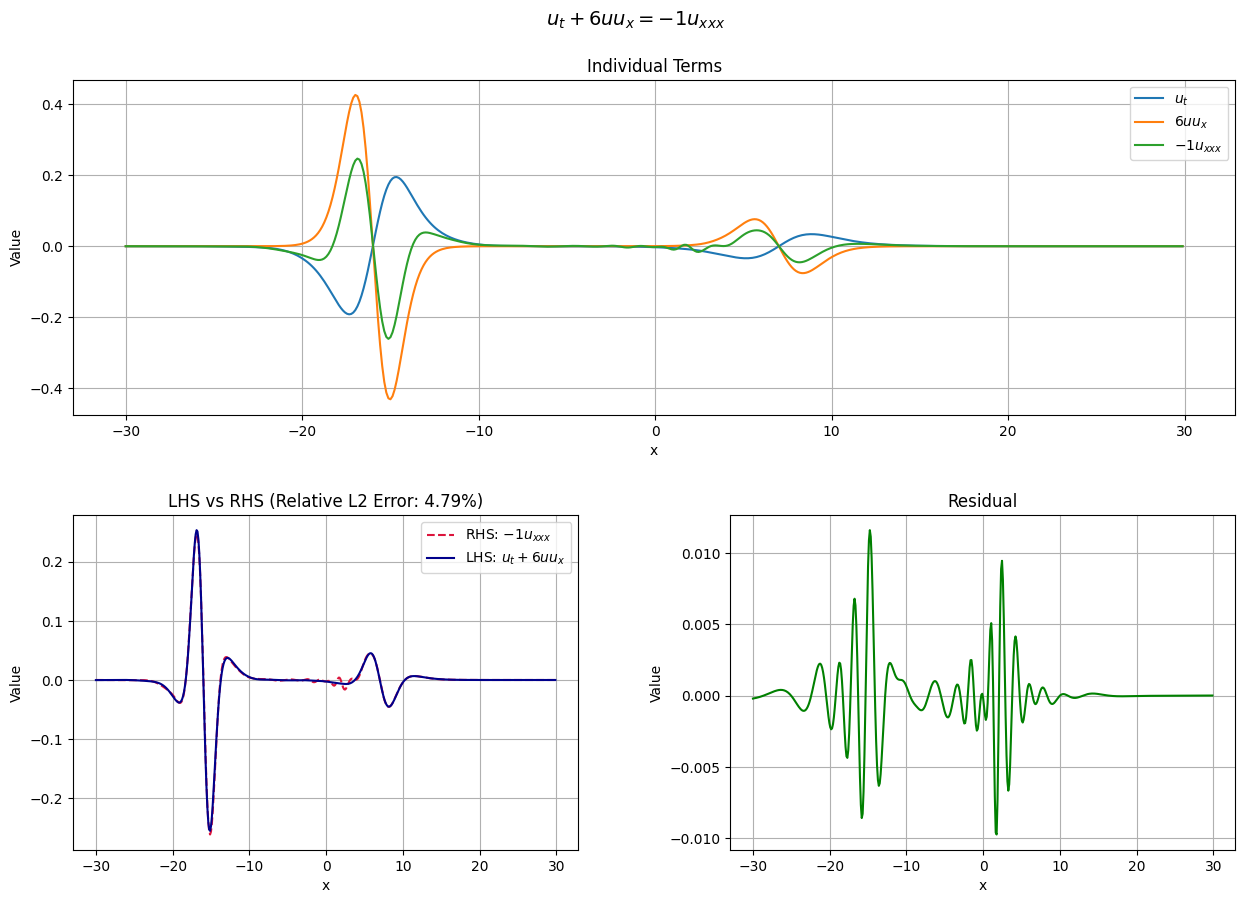
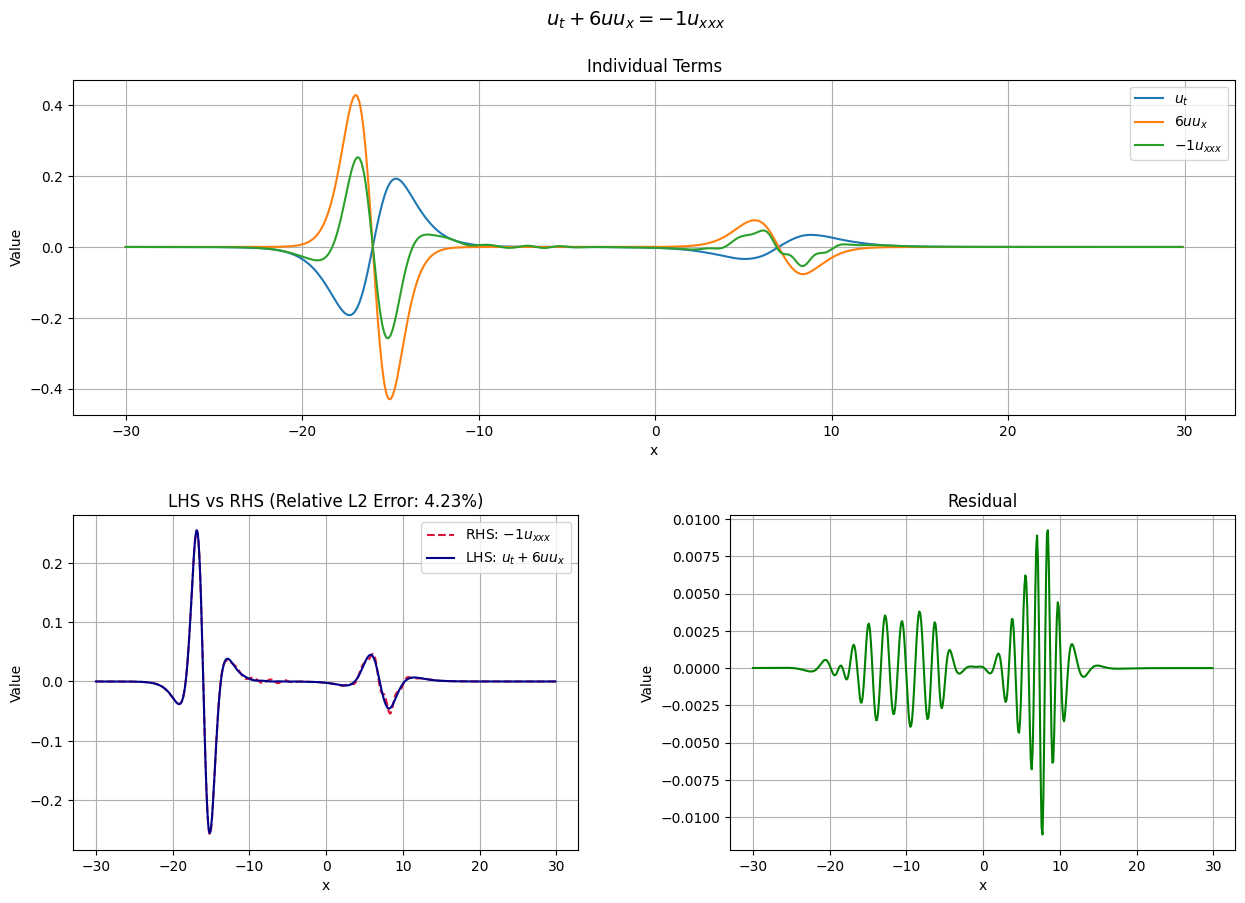
finishing task 1 & 2

diff --git a/project_2/feature_library.py b/project_2/feature_library.py
@@ -2,6 +2,7 @@
 This file contains routines for the assembly of the sparse LSE Uₜ = ϴ ξ for PDE-Find method
 - Part 1 contains the helper routines that builds the Theta matrix and the U_t LHS
 - Part 2 contains routines that help with specifying candidates (partial derivatives) using sympy
+- Part 3 contains concrete implementation for derivative computation
 """
 
 import torch
@@ -114,63 +115,137 @@ def generate_candidate_symbols(max_x_order=2,
         binary_ops: List of binary operations ['add', 'mul'] or None for no binary ops
         power_orders: List of power orders [2, 3, ...] or None for no powers
         allowed_mul_orders: List of tuples (order1, order2) specifying which orders can be multiplied
-                          e.g. [(0,2)] allows u * u_xx but not u_xx * u_xx
         exclude_u_t: Whether to exclude u_t terms from candidates
     """
     # Define symbols separately for spatial and temporal derivatives
     x_syms = {sp.Symbol(f'u_{"x"*n}') for n in range(1, max_x_order+1)}
     
-    # Generate temporal derivatives, excluding u_t if specified
+    # Generate temporal derivatives
     t_syms = set()
-
     for n in range(1, max_t_order+1):
         sym = sp.Symbol(f'u_{"t"*n}')
-        if not (exclude_u_t and n == 1):  # Skip u_t if exclude_u_t is True
+        if not (exclude_u_t and n == 1):
             t_syms.add(sym)
     
     # Combine all symbols
     syms = x_syms.union(t_syms)
     syms.add(sp.Symbol('u'))
     
-    # Start with simplified base symbols
-    expressions = {simplify_expression(sym) for sym in syms}
-    new_exprs = set()
+    # Start with base symbols
+    expressions = set(syms)
     
-    # Generate powers if specified
+    # Generate powers first
+    powered_expressions = set()
     if power_orders:
-        for e in expressions:
+        for base_expr in expressions:
             for power in power_orders:
-                if power != 1:  # Skip power 1 as it's the same as the base symbol
-                    new_exprs.add(simplify_expression(e**power))
-        expressions.update(new_exprs)
+                if power != 1:  # Skip power 1
+                    powered_expr = base_expr**power
+                    powered_expressions.add(powered_expr)
+    
+    # Combine base and powered expressions
+    expressions.update(powered_expressions)
     
     # Generate binary operations if specified
     if binary_ops and 'mul' in binary_ops and allowed_mul_orders:
-        # Only generate products with allowed order combinations
-        new_exprs = set()
+        products = set()
         for e1, e2 in product(expressions, expressions):
             if e1 != e2:  # Avoid self-multiplication
-                # Skip if either term contains u_t
                 if exclude_u_t and ('u_t' in str(e1) or 'u_t' in str(e2)):
                     continue
                     
                 order1 = get_symbol_order(e1)
                 order2 = get_symbol_order(e2)
                 
-                # Check if this order combination is allowed
                 if (order1, order2) in allowed_mul_orders or (order2, order1) in allowed_mul_orders:
-                    prod = simplify_expression(e1 * e2)
-                    new_exprs.add(prod)
-        expressions.update(new_exprs)
+                    prod = e1 * e2
+                    products.add(prod)
+        
+        expressions.update(products)
     
-    # Final simplification of all expressions
-    expressions = {simplify_expression(expr) for expr in expressions}
-    
-    # Filter out any remaining expressions containing u_t if exclude_u_t is True
+    # Filter out u_t terms if needed
     if exclude_u_t:
         expressions = {expr for expr in expressions if 'u_t' not in str(expr)}
     
-    return sorted(expressions, key=lambda x: len(str(x)))
+    return sorted(expressions, key=lambda x: str(x))
+
+#============================================================
+# Part 3: Concrete Implementation for derivative computation
+#============================================================
+
+import torch
+import sympy as sp
+from sympy import Pow, Symbol, Mul, Integer
+
+def compute_derivatives_autodiff(model, x, t, symbols, include_constant=True, include_u=True):
+    """
+    Compute derivatives based on NN model that approximates 1D spatiotemporal u(x,t)
+    - symbols: symbolic expressions are derivatives to be computed need to be specified
+    """
+    results = {}
+    x.requires_grad = True
+    t.requires_grad = True
+    u = model(x, t)
+    
+    # First compute all basic derivatives we'll need
+    basic_derivatives = {}
+    max_x_order = max(str(expr).count('x') for expr in symbols)
+    max_t_order = max(str(expr).count('t') for expr in symbols)
+    
+    # Add constant term if requested
+    if include_constant:
+        results['1'] = torch.ones((u.shape[0] * u.shape[1], 1))
+    
+    # Add base function u if requested
+    if include_u:
+        results['u'] = u
+    
+    # Compute x derivatives
+    current = u
+    basic_derivatives['u'] = u
+    for order in range(1, max_x_order + 1):
+        grad = torch.ones_like(current)
+        current = torch.autograd.grad(current, x, grad_outputs=grad, create_graph=True)[0]
+        basic_derivatives[f'u_{"x" * order}'] = current
+    
+    # Compute t derivatives
+    current = u
+    for order in range(1, max_t_order + 1):
+        grad = torch.ones_like(current)
+        current = torch.autograd.grad(current, t, grad_outputs=grad, create_graph=True)[0]
+        basic_derivatives[f'u_{"t" * order}'] = current
+    
+    # Helper function to convert expression to computation
+    def process_expression(expr):
+        if isinstance(expr, Symbol):
+            # Basic symbol (u, u_x, etc.)
+            return basic_derivatives[str(expr)]
+        elif isinstance(expr, Pow):
+            # Handle power expressions (u^2, u_x^2, etc.)
+            base = process_expression(expr.args[0])
+            power = expr.args[1]
+            # Convert SymPy Integer to Python float for torch.pow
+            if isinstance(power, Integer):
+                power = float(power)
+            return torch.pow(base, power)
+        elif isinstance(expr, Mul):
+            # Handle multiplication
+            result = process_expression(expr.args[0])
+            for arg in expr.args[1:]:
+                result = result * process_expression(arg)
+            return result
+        else:
+            raise ValueError(f"Unsupported expression type: {type(expr)}")
+
+    # Now construct each candidate expression
+    for expr in symbols:
+        try:
+            results[str(expr)] = process_expression(expr)
+        except Exception as e:
+            print(f"Error processing expression {expr}: {e}")
+            raise
+                
+    return results
 
 if __name__ == "__main__":
     # Generated candidates are just strings, not the numeric values of derivative functions

diff --git a/project_2/evaluate.py b/project_2/evaluate.py
@@ -33,7 +33,7 @@ print_discovered_equation,
 compute_derivatives_autodiff
 )
 
-from ffn import (
+from fnn import (
 Net,
 load_model
 )
@@ -53,7 +53,7 @@ def main(system=1):
 
     # Load the model using utility function
     model = load_model(checkpoint_dir[-1])
-    print(f"Loading FFN that approximates system {system} from: {checkpoint_dir[-1]}")
+    print(f"Loading FNN that approximates system {system} from: {checkpoint_dir[-1]}")
 
     # Load and prepare dataset
     if system == 1:
@@ -97,28 +97,29 @@ def main(system=1):
             max_x_order=3,     # Up to u_xxx
             max_t_order=0,
             binary_ops=['mul'],
-            power_orders=[1],
+            power_orders=[1, 2, 3], # base power orders
             allowed_mul_orders=[(0,1), (0,2)],
             exclude_u_t=True
         )
+        derivatives = compute_derivatives_autodiff(model, x_tensor, t_tensor, symbols, 
+                                include_constant=True,
+                                include_u=True)
     else:
         symbols = generate_candidate_symbols(
             max_x_order=3,     # Up to u_xxx
-            max_t_order=0,
+            max_t_order=2,     # Up to u_tt
             binary_ops=['mul'],
             power_orders=[1],
-            allowed_mul_orders=[(0,1), (0,2)],
-            exclude_u_t=True
+            allowed_mul_orders=[(0,1), (0,2), (0,3), (1,1), (2,2), (3,3)],
+            exclude_u_t=False
         )
 
-    derivatives = compute_derivatives_autodiff(model, x_tensor, t_tensor, symbols, 
-                               include_constant=True,
-                               include_u=True)
+        derivatives = compute_derivatives_autodiff(model, x_tensor, t_tensor, symbols, 
+                                include_constant=True,
+                                include_u=True)
 
-    # Manually filter out some entries
-    # derivatives.pop('u')
-    # derivatives.pop('u_t')
-    derivatives.pop('u_x')
+        # Manually filter out some entries
+        derivatives.pop('u_t') # this is already lhs, we want just u_tt and co
 
     print(f"{len(list(derivatives.keys()))} derivatives keys: {list(derivatives.keys())}")
     candidates = list(derivatives.keys())
@@ -139,18 +140,33 @@ def main(system=1):
     Theta_np = Theta.cpu().detach().numpy()
     u_t_np = u_t.cpu().detach().numpy()
 
+    if system == 1:
+        λ = 1e-6
+        maxiter = 50
+        split = 0.5
+        η = 1e-3
+        d_tol = 5e-3
+        STR_iters = 10
+    else:
+        λ = 1e-6
+        maxiter = 50
+        split = 0.7
+        η = 1e-3
+        d_tol = 1e-2
+        STR_iters = 10
+
+    # Find best coefficients
     ξ_best = TrainSTRidge(
-        Theta_np, u_t_np,
-        lam=1e-6,
-        d_tol=5e-3,
-        maxit=10,
-        STR_iters=10,
-        l0_penalty=None,
-        split=0.7,
+        Theta_np,
+        u_t_np,
+        λ=λ,
+        d_tol=d_tol,
+        maxiter=maxiter,
+        STR_iters=STR_iters,
+        η=η,
+        split=split,
         print_best_tol=True
     )
-    print(f"Found coefficients {ξ_best}")
-
     # After running ridge regression:
     print_discovered_equation(candidates, ξ_best)
 

diff --git a/project_2/fnn.py b/project_2/fnn.py
@@ -1,0 +1,72 @@
+"""
+Utility functions used for training and evaluating the simple FNN model
+"""
+
+import json
+from datetime import datetime
+from pathlib import Path
+
+import torch
+import torch.nn as nn
+import numpy as np
+
+class Net(nn.Module):
+    """Simple NN used for approximating spatiotemporal solution u(x, t)"""
+    def __init__(self, width = 64, activation_fun = "Tanh", device="cuda"):
+        super(Net, self).__init__()
+        self.width = width
+
+        # Layers
+        self.fc0 = nn.Linear(2, self.width)
+        self.fc1 = nn.Linear(self.width, self.width)
+        self.fc2 = nn.Linear(self.width, 1)
+
+        if activation_fun == "Tanh":
+            self.activation = nn.Tanh()
+        elif activation_fun == "GELU":
+            self.activation = nn.GELU()
+        print(f"Activation function set to {activation_fun}")
+           
+        self.to(device)
+        
+    def forward(self, x, t):
+        X = torch.cat([x, t], dim=1)
+        X = self.fc0(X)
+        X = self.activation(X)
+        X = self.fc1(X)
+        X = self.activation(X)
+        X = self.fc2(X)
+        return X
+
+def get_experiment_name(width, learning_rate):
+    """Create a unique experiment name based on key parameters and timestamp"""
+    timestamp = datetime.now().strftime("%Y%m%d_%H%M%S")
+    return f"pde_sol_w{width}_lr{learning_rate}_{timestamp}"
+
+def save_config(config, save_dir):
+    """Save configuration to a JSON file"""
+    config_copy = {
+        'model_config': {k: str(v) if isinstance(v, torch.device) else v 
+                        for k, v in config['model_config'].items()},
+        'training_config': {k: str(v) if isinstance(v, torch.device) else v 
+                          for k, v in config['training_config'].items()}
+    }
+    
+    with open(save_dir / 'training_config.json', 'w') as f:
+        json.dump(config_copy, f, indent=4)
+
+def load_model(checkpoint_dir: str) -> torch.nn.Module:
+    device = torch.device('cuda' if torch.cuda.is_available() else 'cpu')
+    checkpoint_dir = Path(checkpoint_dir)
+    
+    with open(checkpoint_dir / 'training_config.json', 'r') as f:
+        config_dict = json.load(f)
+    
+    model_config = config_dict['model_config']
+    model_args = {k: v for k, v in model_config.items()}
+    model = Net(**model_args)
+    
+    model.load_state_dict(torch.load(checkpoint_dir / 'model.pth', weights_only=True))    
+    model = model.to(device)
+    model.eval()
+    return model

diff --git a/project_2/README.md b/project_2/README.md
@@ -5,17 +5,46 @@ This project aims to use the PDE-Find method [^1] for symbolic regression of the
 ## Getting Started
 
 
-For system 1 & 2:
+### For system 1:
 
 ```python
 # Run PDE-Find and obtain symbols of governing equation for system 1
 python3 evaluate.py --system=1
+```
 
+running the PDE-Find algorithm based on 31 candidates
+
+```
+31 derivatives keys: ['1', 'u', 'u**2', 'u**2*u_x', 'u**2*u_x**2', 'u**2*u_x**3', 'u**2*u_xx', 'u**2*u_xx**2', 'u**2*u_xx**3', 'u**3', 'u**3*u_x', 'u**3*u_x**2', 'u**3*u_x**3', 'u**3*u_xx', 'u**3*u_xx**2', 'u**3*u_xx**3', 'u*u_x', 'u*u_x**2', 'u*u_x**3', 'u*u_xx', 'u*u_xx**2', 'u*u_xx**3', 'u_x', 'u_x**2', 'u_x**3', 'u_xx', 'u_xx**2', 'u_xx**3', 'u_xxx', 'u_xxx**2', 'u_xxx**3']
+```
+
+we found the following equation for system 1:
+
+$$u_t = -0.997335 \cdot u u_\mathbf{x} + 0.099140*u_\mathbf{x x} $$
+
+
+### For system 2
+For the second PDE solutions given by the dataset `2.npz`, the same `evaluate.py` script is used, because we have again 1D solutions for one specific PDE:
+
+```bash
 # Similarly for system 2
 python3 evaluate.py --system=2
 ```
+with 13 candidate terms,
 
-For system 3, we have a coupled system on 2D data. To evaluate it, run:
+```bash
+13 derivatives keys: ['1', 'u', 'u*u_t', 'u*u_tt', 'u*u_x', 'u*u_xx', 'u*u_xxx', 'u_t*u_x', 'u_tt', 'u_tt*u_xx', 'u_x', 'u_xx', 'u_xxx']
+```
+
+we found the following equation for system 2:
+
+$$
+u_\mathbf{t} = -5.964103 \cdot u u_\mathbf{x} -0.987782 \cdot u_\mathbf{xxx}
+$$
+
+### For system 3
+
+Now, we have a coupled system on 2D data and we use another script `evalute_2d.py`. To evaluate it, run:
 
 ```python
 # Run PDE-Find and obtain symbols of governing equation for system 3
